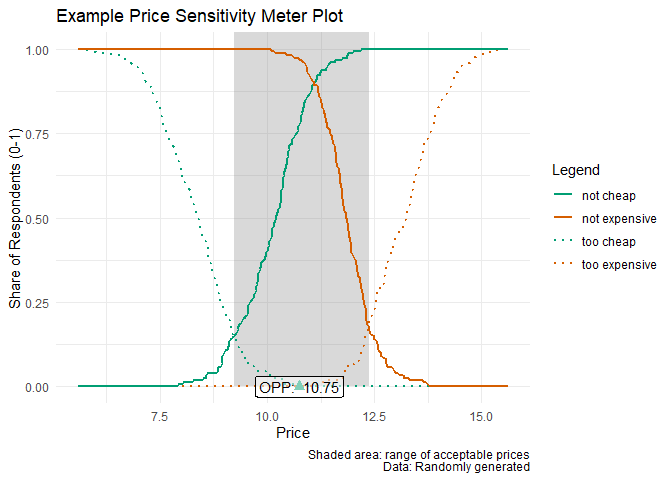
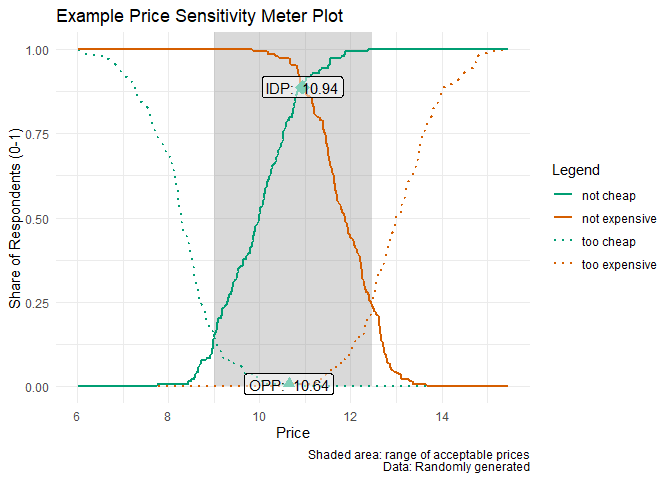
Re-knit README
... to fix issue with missing IDP in plot

diff --git a/README.md b/README.md
@@ -61,14 +61,14 @@ output_psm_demo <- psm_analysis(
 summary(output_psm_demo)
 #> Van Westendorp Price Sensitivity Meter Analysis
 #> 
-#> Accepted Price Range: 9.23 - 12.37 
-#> Indifference Price Point: 11.085 
-#> Optimal Price Point: 10.75 
+#> Accepted Price Range: 9 - 12.48 
+#> Indifference Price Point: 10.94 
+#> Optimal Price Point: 10.64 
 #> 
 #> ---
-#> 158 cases with individual price preferences were analyzed (unweighted data).
+#> 143 cases with individual price preferences were analyzed (unweighted data).
 #> Total data set consists of 250 cases. Analysis was limited to cases with transitive price preferences.
-#> (Removed: n = 92 / 37% of data)
+#> (Removed: n = 107 / 43% of data)
 ```
 
 The package also has a function `psm_analysis_weighted()` that deals
@@ -81,7 +81,6 @@ result created above.
 
 ``` r
 library(ggplot2)
-#> Warning: Paket 'ggplot2' wurde unter R Version 4.4.3 erstellt
 
 psm_plot(output_psm_demo) +
   labs(
